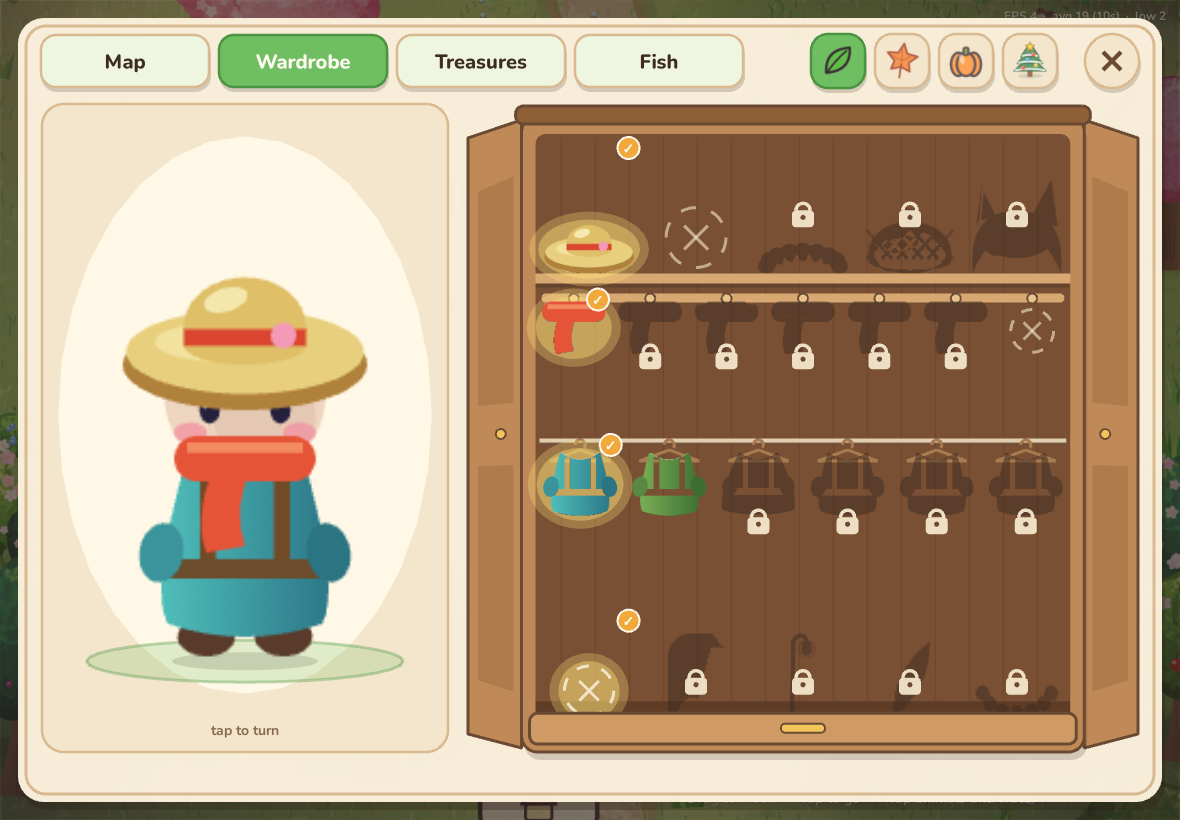
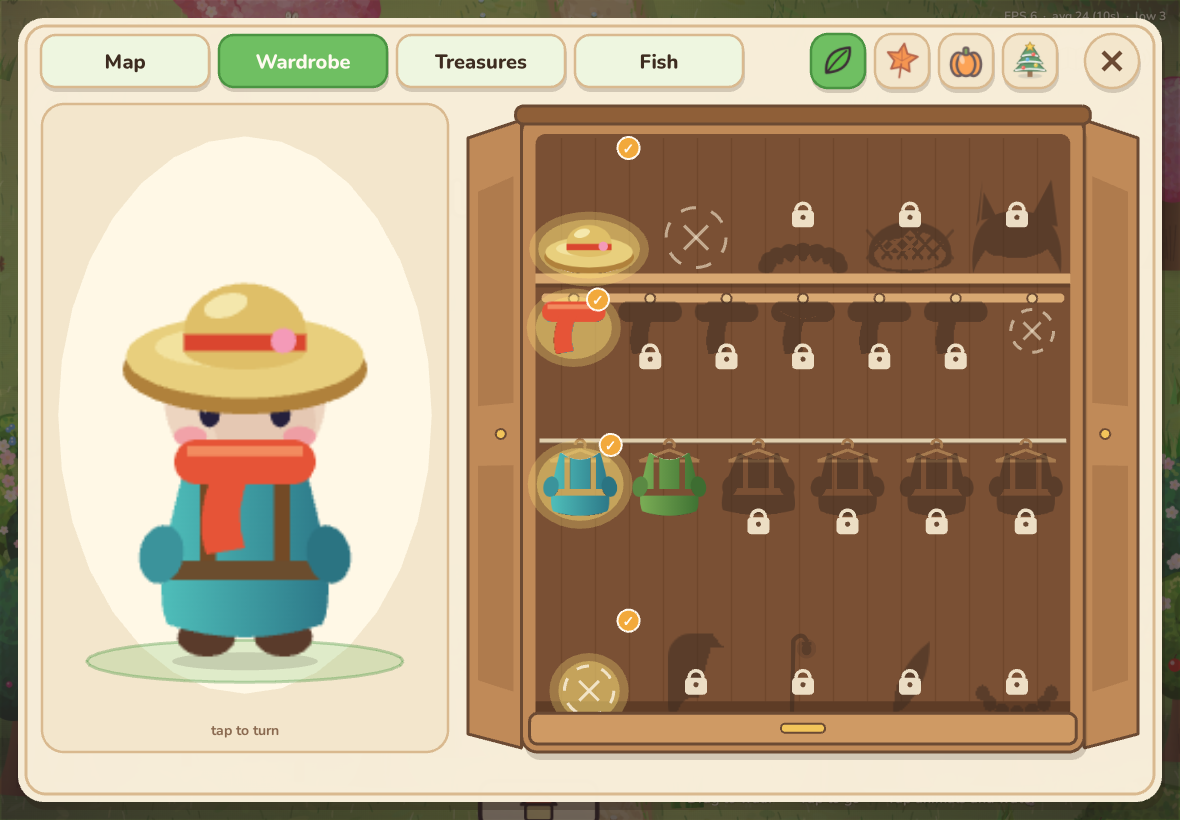
Wardrobe slice 3: hero reactions (hop, sparkles, sound; per-category stretch/wiggle/twirl/bounce)

diff --git a/src/scenes/Menu.ts b/src/scenes/Menu.ts
@@ -34,6 +34,12 @@ export class MenuScene extends Phaser.Scene {
     fromHero: boolean; live: boolean; done: boolean;
   } = null;
   private stageGlow: Phaser.GameObjects.Graphics | null = null;
+  /** 9.36 slice 3: squash & stretch for the hero's reactions (update() applies it on top of the breathing). */
+  heroSquash = { x: 1, y: 1 };
+  private heroBase = 1;
+  /** Last reaction played, for tests: 'hat' | 'scarf' | 'outfit' | 'extras' | 'off'. */
+  lastReaction = '';
+  private reactChain: Phaser.Tweens.TweenChain | null = null;
   playerDot: Phaser.GameObjects.Graphics | null = null;
   mapGeom = { x: 0, y: 0, s: 1 };
   resetArmed = 0;
@@ -261,6 +267,7 @@ export class MenuScene extends Phaser.Scene {
     const key = this.world.heroKey;
     const sc = Math.min((ph * 0.8) / (HERO_H * S), (pw * 0.95) / (HERO_W * S));
     this.heroImg = this.add.image(a.x + pw / 2, floorY + 8, key, `${this.heroDir}_0`).setOrigin(0.5, 1).setScale(sc);
+    this.heroBase = sc; this.heroSquash.x = 1; this.heroSquash.y = 1;
     this.content.add(this.heroImg);
     this.rects.hero = { x: a.x, y: a.y, w: pw, h: ph };
     const turn = this.add.zone(a.x, a.y, pw, ph).setOrigin(0, 0).setInteractive();
@@ -363,8 +370,58 @@ export class MenuScene extends Phaser.Scene {
     this.game.events.emit('equipped', c.id);
     this.render();
     // A little hop for the hero, and the name of what you picked.
-    if (this.heroImg) { const hy = this.heroImg.y; this.tweens.add({ targets: this.heroImg, y: hy - 18, duration: 140, yoyo: true, ease: 'Sine.easeOut' }); }
-    this.hint(isEquipped(c, save.look) ? c.name : `${c.name} off`);
+    const on = isEquipped(c, save.look) && !isNoneItem(c);
+    this.react(on ? c.slot : 'off');
+    this.hint(on || isEquipped(c, save.look) ? c.name : `${c.name} off`);
+  }
+
+  /** The hero reacts to a change: a happy hop + sparkles + a sound for everything, plus a pose per category:
+   *  hat = a proud stretch, scarf = a wiggle, outfit = a twirl all the way round, extras = a double bounce. */
+  private react(kind: string) {
+    const h = this.heroImg; if (!h) return;
+    this.lastReaction = kind === 'back' || kind === 'feather' || kind === 'shells' ? 'extras' : kind;
+    const k = this.lastReaction, hy = h.y, sq = this.heroSquash;
+    this.tweens.killTweensOf([h, sq]); this.reactChain?.stop(); this.reactChain = null;
+    h.setAngle(0); sq.x = 1; sq.y = 1;
+    if (k === 'off') {
+      // A little shrug: squash down and back.
+      sfx.blip();
+      this.tweens.add({ targets: sq, x: 1.08, y: 0.9, duration: 120, yoyo: true, ease: 'Sine.easeOut', onComplete: () => { sq.x = 1; sq.y = 1; } });
+      return;
+    }
+    sfx.sparkle();
+    this.sparkles(h.x, hy - h.displayHeight * 0.55, h.displayWidth * 0.55);
+    // Anticipation squash, then a hop with a stretch.
+    this.reactChain = this.tweens.chain({ targets: sq, tweens: [
+      { x: 1.12, y: 0.86, duration: 90, ease: 'Quad.easeOut' },
+      { x: 0.92, y: k === 'hat' ? 1.18 : 1.1, duration: k === 'hat' ? 220 : 140, ease: 'Quad.easeOut' },
+      { x: 1, y: 1, duration: 220, ease: 'Back.easeOut' },
+    ], onComplete: () => { sq.x = 1; sq.y = 1; } });
+    this.tweens.add({ targets: h, y: hy - (k === 'hat' ? 30 : 22), duration: 170, delay: 90, yoyo: true, ease: 'Sine.easeOut',
+      repeat: k === 'extras' ? 1 : 0, onComplete: () => h.setY(hy) });
+    if (k === 'scarf') {
+      this.tweens.add({ targets: h, angle: { from: -7, to: 7 }, duration: 110, yoyo: true, repeat: 2, delay: 120, ease: 'Sine.easeInOut', onComplete: () => h.setAngle(0) });
+    } else if (k === 'outfit') {
+      // Twirl: spin through every facing and back to the front.
+      const order = [1, 2, 3, 4, 0];
+      order.forEach((dir, i) => this.time.delayedCall(110 + i * 85, () => { if (this.heroImg === h) { h.setFrame(`${dir}_0`); if (i === order.length - 1) this.heroDir = 0; } }));
+    }
+  }
+
+  /** A burst of little four-point stars around the hero. */
+  private sparkles(x: number, y: number, rad: number) {
+    const colors = [0xffe27a, 0xfff6c8, 0xf2a93b, theme.ui.accent ?? 0x9ad07a];
+    for (let i = 0; i < 12; i++) {
+      const a = (i / 12) * Math.PI * 2 + Math.random() * 0.4, d = rad * (0.7 + Math.random() * 0.6), sz = 5 + Math.random() * 6;
+      const g = this.add.graphics({ x, y });
+      g.fillStyle(colors[i % colors.length], 1);
+      g.fillTriangle(-sz * 0.3, 0, sz * 0.3, 0, 0, -sz); g.fillTriangle(-sz * 0.3, 0, sz * 0.3, 0, 0, sz);
+      g.fillTriangle(0, -sz * 0.3, 0, sz * 0.3, -sz, 0); g.fillTriangle(0, -sz * 0.3, 0, sz * 0.3, sz, 0);
+      g.setScale(0.3);
+      this.content.add(g);
+      this.tweens.add({ targets: g, x: x + Math.cos(a) * d, y: y + Math.sin(a) * d * 1.2, scale: 1, angle: 90, duration: 380 + Math.random() * 160, ease: 'Quad.easeOut',
+        onComplete: () => this.tweens.add({ targets: g, alpha: 0, scale: 0.2, duration: 260, onComplete: () => g.destroy() }) });
+    }
   }
 
   /** Finger down on an item: it becomes a drag once the finger travels a little (a short press stays a tap). */
@@ -417,7 +474,7 @@ export class MenuScene extends Phaser.Scene {
           if (!isEquipped(d.c, save.look)) { this.wear(d.c); return; }
           // Already wearing it: just a happy hop.
           this.render(); this.hint(d.c.name);
-          if (this.heroImg) { const hy = this.heroImg.y; this.tweens.add({ targets: this.heroImg, y: hy - 18, duration: 140, yoyo: true, ease: 'Sine.easeOut' }); }
+          this.react(d.c.slot);
         } });
       return;
     }
@@ -587,7 +644,7 @@ export class MenuScene extends Phaser.Scene {
       d.vx = d.vx * 0.6 + (nx - d.ghost.x) * 0.4;
       d.ghost.setPosition(nx, d.ghost.y + (d.ty - d.ghost.y) * k).setAngle(Phaser.Math.Clamp(d.vx * 1.6, -22, 22));
     }
-    if (this.heroImg) this.heroImg.setScale(this.heroImg.scaleX, this.heroImg.scaleX * (1 + Math.sin(time / 420) * 0.018));
+    if (this.heroImg) this.heroImg.setScale(this.heroBase * this.heroSquash.x, this.heroBase * this.heroSquash.y * (1 + Math.sin(time / 420) * 0.018));
     if (this.playerDot) {
       const { x, y, s } = this.mapGeom;
       const px = x + this.world.feet.x * s, py = y + this.world.feet.y * s;

diff --git a/tests/wardrobe.spec.ts b/tests/wardrobe.spec.ts
@@ -8,6 +8,7 @@ const FILE = pathToFileURL(resolve('dist-single/index.html')).href;
 const SHOTS = process.env.WARDROBE_SHOTS ?? '/workspace/cozy-game/screenshots';
 const look = (page: Page) => page.evaluate(() => (window as any).__cozy.state.look);
 const rect = (page: Page, k: string) => page.evaluate((k) => (window as any).__menu.rects[k], k);
+const reaction = (page: Page) => page.evaluate(() => (window as any).__menu.lastReaction);
 const tapRect = async (page: Page, r: { x: number; y: number; w: number; h: number }) => page.touchscreen.tap(r.x + r.w / 2, r.y + r.h / 2);
 
 test('wardrobe: big hero, illustrated wardrobe, tap to wear', async ({ playwright: _pw }, info) => {
@@ -49,9 +50,21 @@ test('wardrobe: big hero, illustrated wardrobe, tap to wear', async ({ playwrigh
       expect((await look(page)).outfit).toBe('teal');
       await tapRect(page, await rect(page, 'outfit:moss'));
       await expect.poll(async () => (await look(page)).outfit, { timeout: 20_000 }).toBe('moss');
+      expect(await reaction(page)).toBe('outfit');
       await page.waitForTimeout(600);
       await tapRect(page, await rect(page, 'hat:none'));
       await expect.poll(async () => (await look(page)).hat, { timeout: 20_000 }).toBe('none');
+      expect(await reaction(page)).toBe('off');
+      await page.waitForTimeout(600);
+      // 9.36 slice 3: a scarf makes the hero wiggle (with sparkles).
+      await tapRect(page, await rect(page, 'scarf:none'));
+      await expect.poll(async () => (await look(page)).scarf, { timeout: 20_000 }).toBe('none');
+      await page.waitForTimeout(600);
+      await tapRect(page, await rect(page, 'scarf:red'));
+      await expect.poll(async () => (await look(page)).scarf, { timeout: 20_000 }).toBe('red');
+      expect(await reaction(page)).toBe('scarf');
+      await page.waitForTimeout(250);
+      await page.screenshot({ path: `${SHOTS}/wardrobe-react.png` });
       await page.waitForTimeout(600);
       // Locked: nothing changes.
       await tapRect(page, await rect(page, 'scarf:petal'));
@@ -59,6 +72,12 @@ test('wardrobe: big hero, illustrated wardrobe, tap to wear', async ({ playwrigh
       expect((await look(page)).scarf).toBe('red');
       await tapRect(page, await rect(page, 'hat:straw'));
       await expect.poll(async () => (await look(page)).hat, { timeout: 20_000 }).toBe('straw');
+      expect(await reaction(page)).toBe('hat');
+      await page.waitForTimeout(1500);
+      // After the reaction the hero settles back to normal.
+      const sq = await page.evaluate(() => (window as any).__menu.heroSquash);
+      expect(Math.abs(sq.x - 1)).toBeLessThan(0.02);
+      expect(Math.abs(sq.y - 1)).toBeLessThan(0.02);
       expect(errors).toEqual([]);
     } finally { await page.close(); }
   } finally { await browser.close(); }

diff --git a/src/whatsnew.ts b/src/whatsnew.ts
@@ -3,12 +3,12 @@
 // Keep each bullet short and simple: kids read these.
 // icon: 'wood' | 'fruit' | 'berry' | 'star' | 'heart' (a little picture beside the line).
 
-export const VERSION = '2026-10-23-wardrobedrag';
+export const VERSION = '2026-10-23-wardrobereact';
 
 export type WhatsNewItem = { icon: 'wood' | 'fruit' | 'berry' | 'star' | 'heart'; text: string };
 
 export const ITEMS: WhatsNewItem[] = [
-  { icon: 'star', text: 'A brand-new wardrobe! Open the menu and tap Wardrobe. Drag a hat, scarf or outfit onto your hero to try it on, or drag it off again.' },
+  { icon: 'star', text: 'A brand-new wardrobe! Open the menu and tap Wardrobe. Drag a hat, scarf or outfit onto your hero to try it on, and watch them hop, wiggle and twirl!' },
   { icon: 'fruit', text: 'Fish from your boat! Row out on the water, then tap your boat to cast a line. Each season paints the boat a new color.' },
   { icon: 'heart', text: 'Row, row, row your boat! Tap the little red boat at the pond or the lake to climb in. Tap the shore to hop out.' },
   { icon: 'star', text: 'Fly anywhere! While riding your mount, tap Home, Village, Pond and more to zoom straight there.' },
